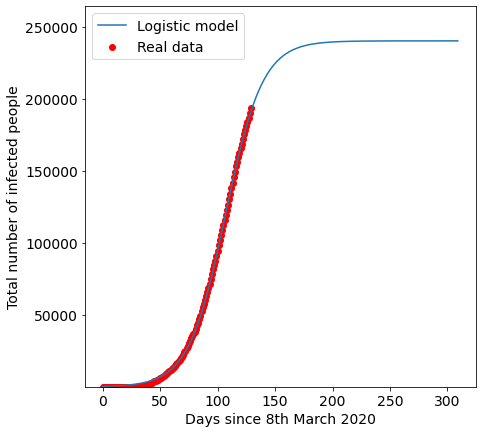
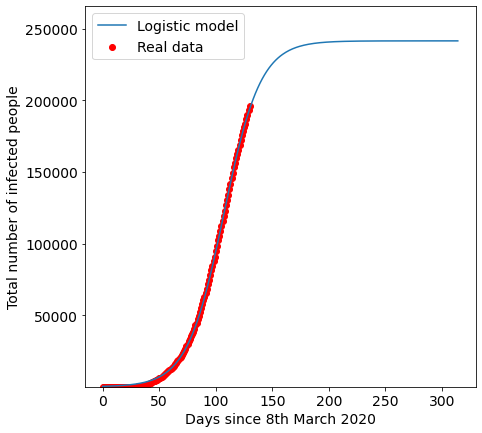
Updated data, notebook and readme.

diff --git a/README.md b/README.md
@@ -63,11 +63,6 @@ df.tail()
   </thead>
   <tbody>
     <tr>
-      <th>125</th>
-      <td>7-11-2020</td>
-      <td>181129</td>
-    </tr>
-    <tr>
       <th>126</th>
       <td>7-12-2020</td>
       <td>183795</td>
@@ -86,6 +81,11 @@ df.tail()
       <th>129</th>
       <td>7-15-2020</td>
       <td>193590</td>
+    </tr>
+    <tr>
+      <th>130</th>
+      <td>7-16-2020</td>
+      <td>196323</td>
     </tr>
   </tbody>
 </table>
@@ -157,11 +157,6 @@ data.tail()
   </thead>
   <tbody>
     <tr>
-      <th>125</th>
-      <td>125</td>
-      <td>181129</td>
-    </tr>
-    <tr>
       <th>126</th>
       <td>126</td>
       <td>183795</td>
@@ -180,6 +175,11 @@ data.tail()
       <th>129</th>
       <td>129</td>
       <td>193590</td>
+    </tr>
+    <tr>
+      <th>130</th>
+      <td>130</td>
+      <td>196323</td>
     </tr>
   </tbody>
 </table>
@@ -227,9 +227,9 @@ print('Days from start when cumulative case counts will peak: ', b)
 print('Total cumulative cases that will be reached: ', c)
 ```
 
-    Metric for speed of infections:  16.155700498293267
-    Days from start when cumulative case counts will peak:  106.97157608851094
-    Total cumulative cases that will be reached:  240345.8344037766
+    Metric for speed of infections:  16.20631508987453
+    Days from start when cumulative case counts will peak:  107.1474563906284
+    Total cumulative cases that will be reached:  241550.61809833464
     
 
 
@@ -240,7 +240,7 @@ print('Errors in a, b and c respectively:\n', errors)
 ```
 
     Errors in a, b and c respectively:
-     [0.09631467530952931, 0.23658555105716564, 1475.920208492724]
+     [0.09581896432377757, 0.23092623035494553, 1431.4657531770454]
     
 
 
@@ -253,7 +253,7 @@ print('Estimated total number of infections betweeen ', (c - errors[2]), ' and '
 ```
 
     Estimated time of peak between 2020-06-22  and  2020-06-23
-    Estimated total number of infections betweeen  238869.91419528387  and  241821.75461226932
+    Estimated total number of infections betweeen  240119.1523451576  and  242982.08385151168
     
 
 To extrapolate the curve to the future, use the fsolve function from scipy.
@@ -301,7 +301,7 @@ for i in x]
 print('Mean squared error: ', mean_squared_error(y,y_pred_logistic))
 ```
 
-    Mean squared error:  958963.8546719938
+    Mean squared error:  994036.2433783162
     
 
 # Epilogue
